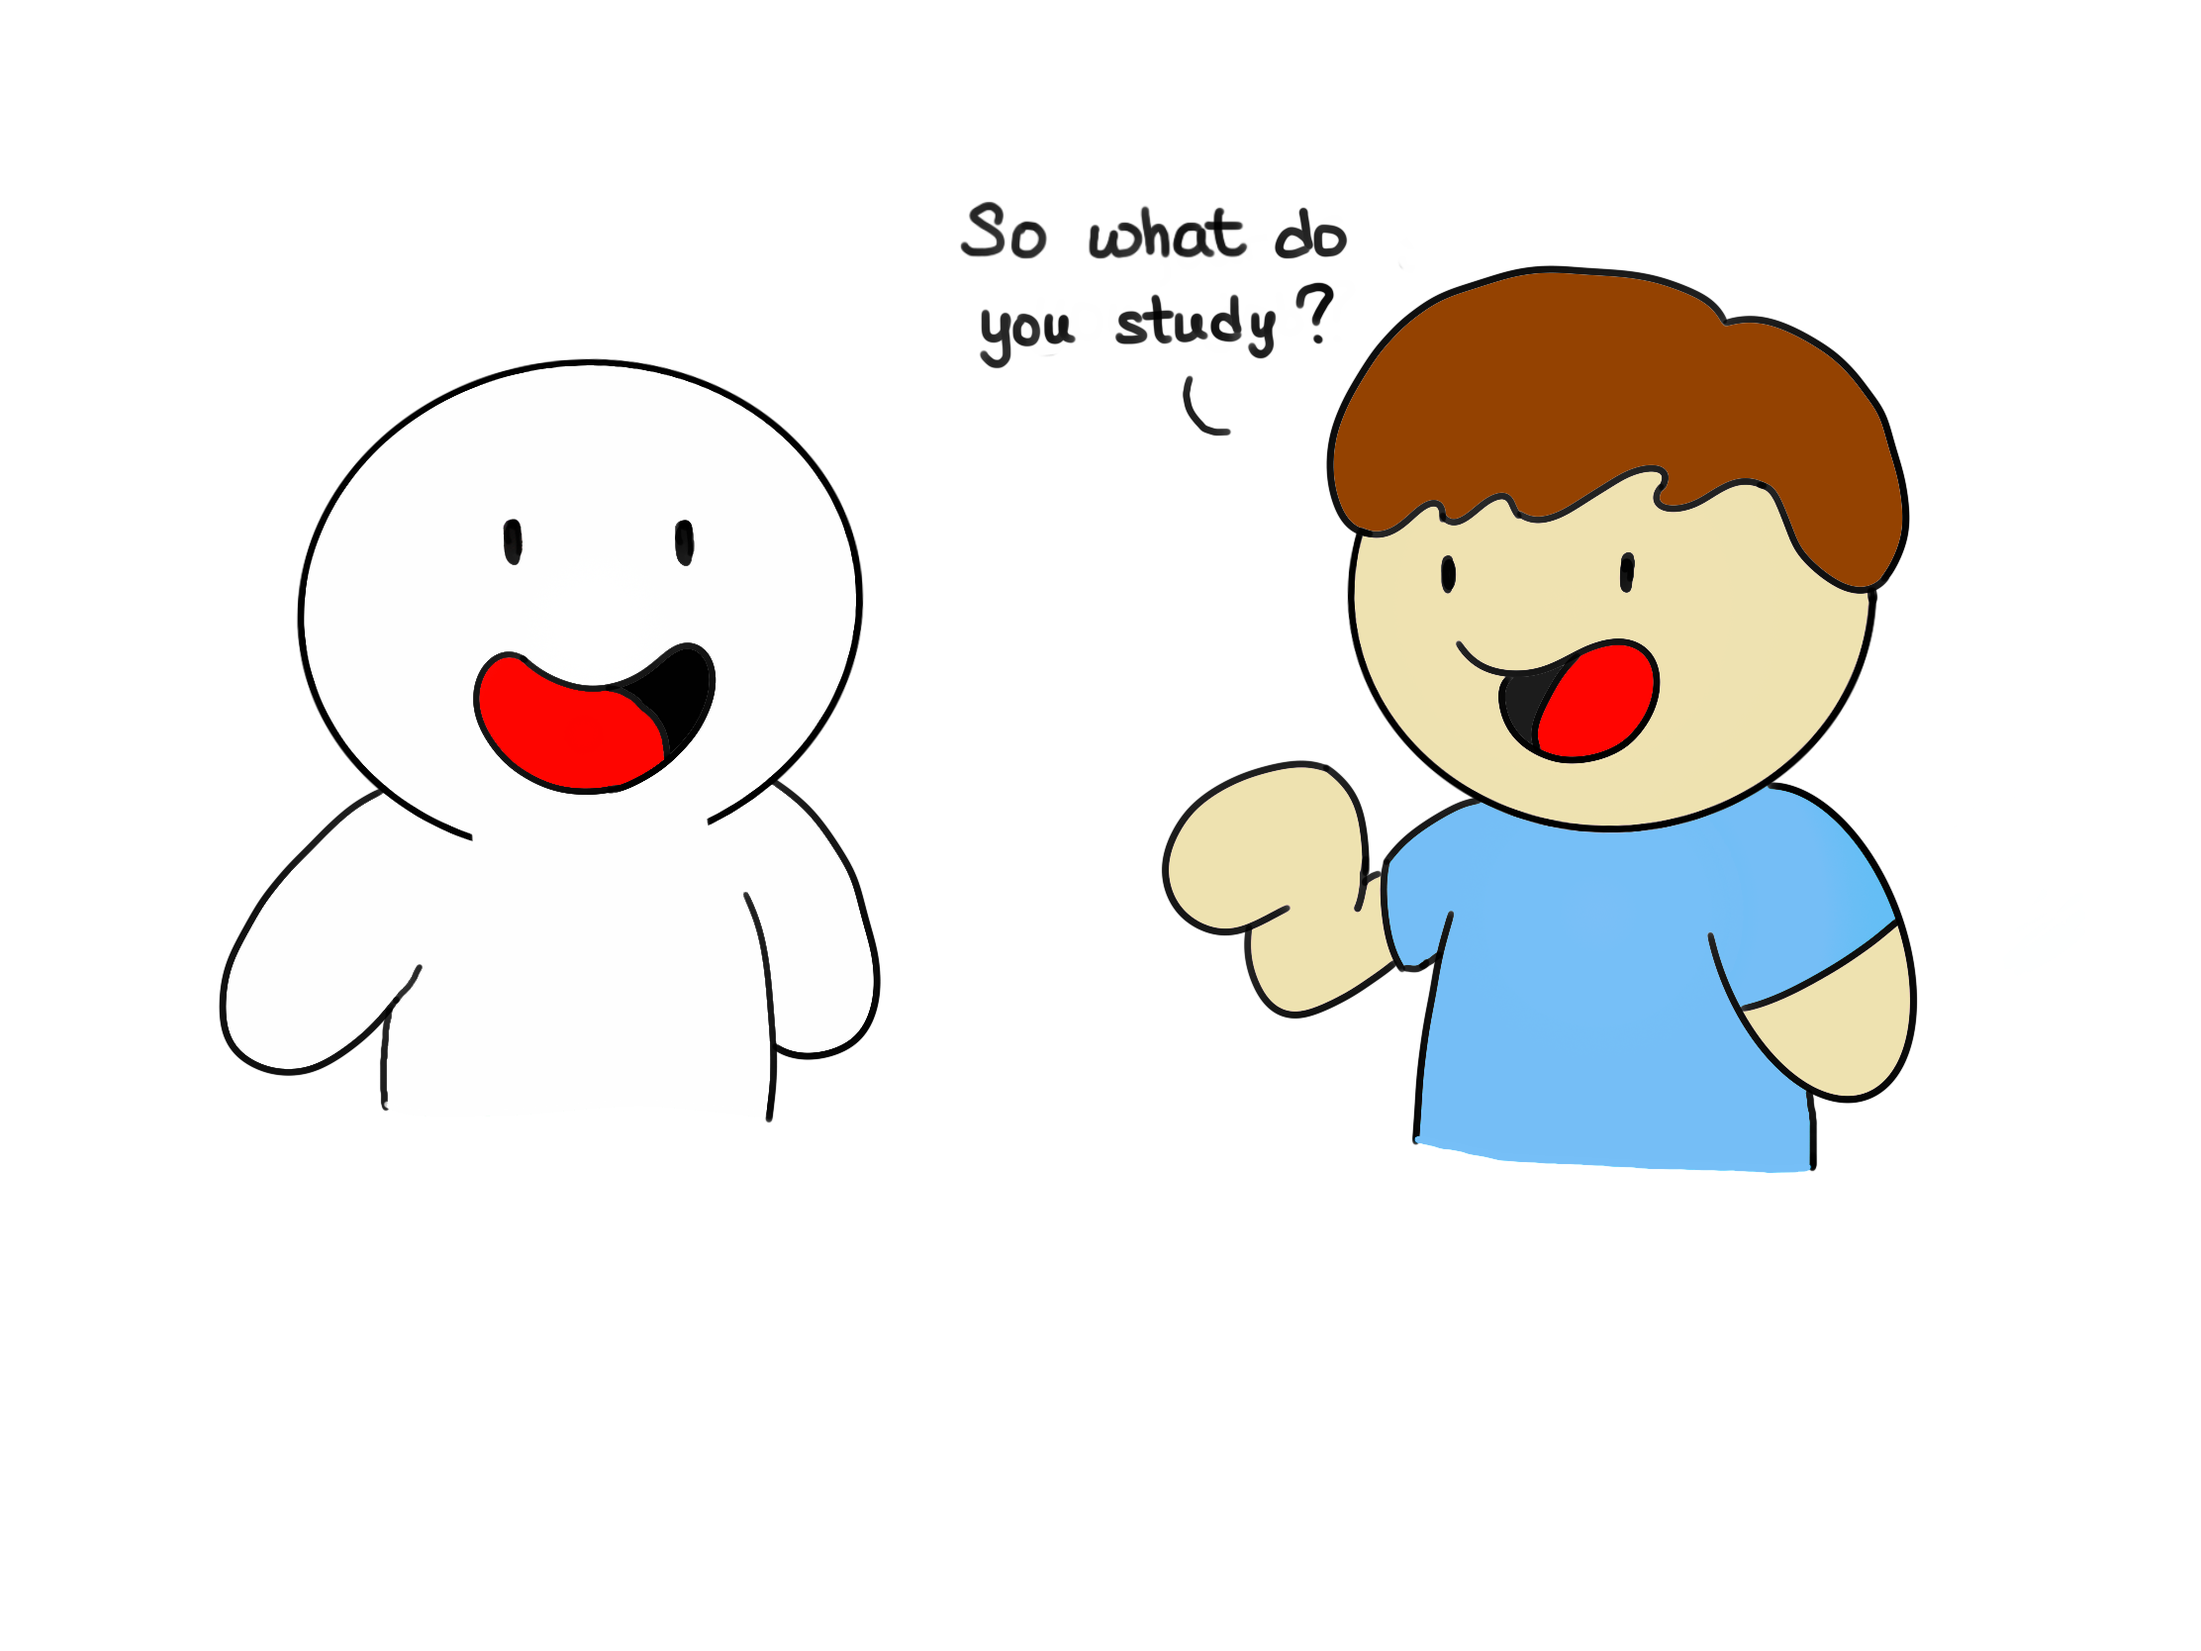
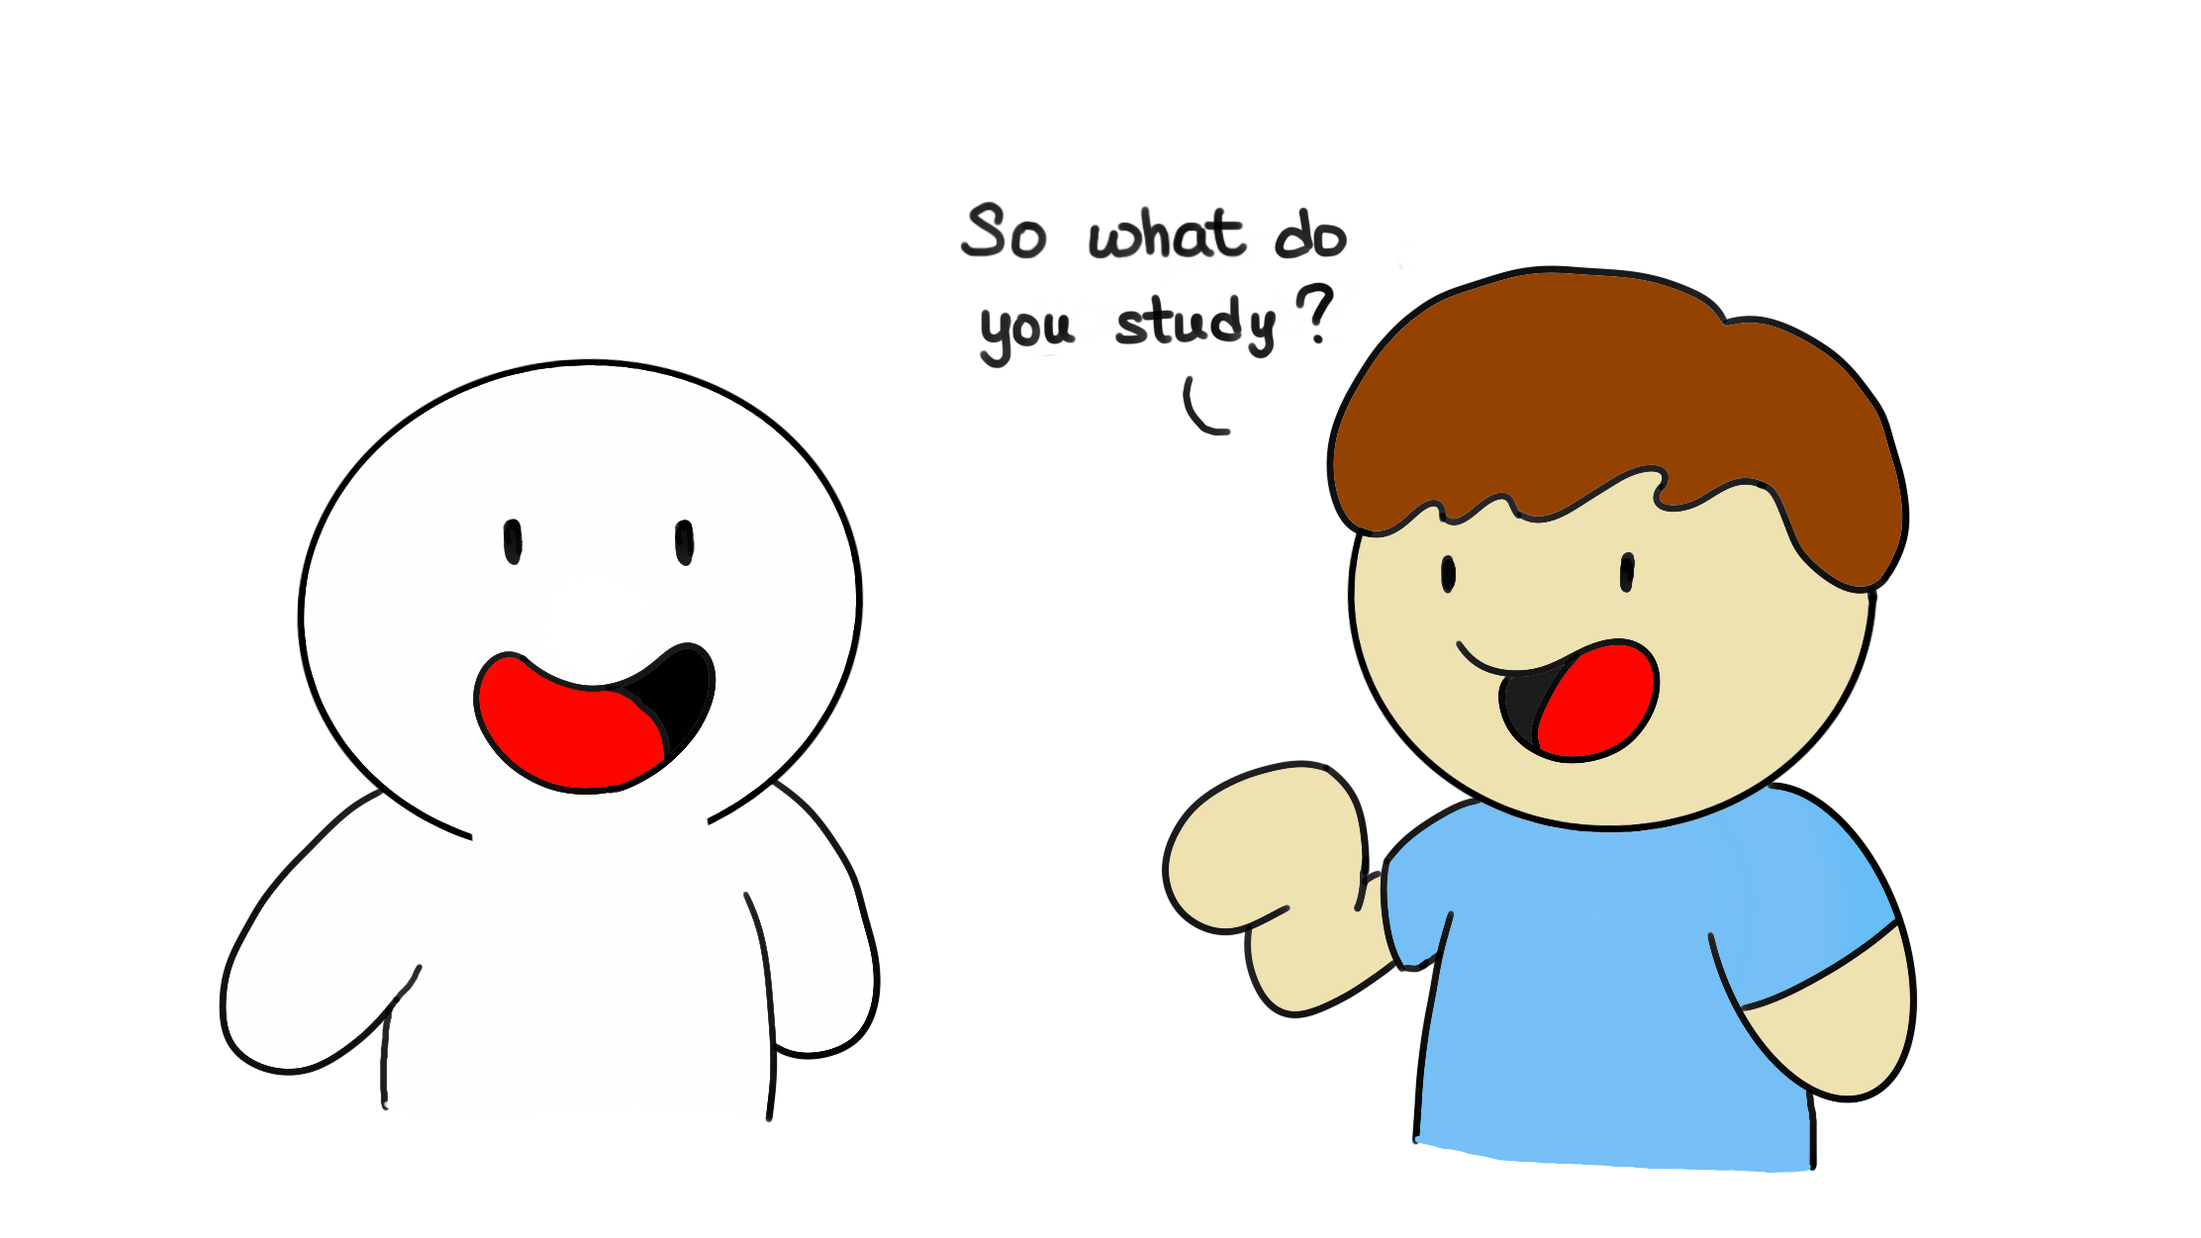
Resized figures for Mission page

diff --git a/mission.md b/mission.md
@@ -8,3 +8,5 @@ image1: ["/assets/pages/Mission/About4.png", "/assets/pages/Mission/About5.png",
 {% include slider.html image=page.image0 tag=0 %}
 This scenario is very familiar to any physics student. Typically, there are different stages after someone ask me about what I study. First, they thought in their mind "What have I done?!" Second, they would try to mask it with something flattering like "Oh my god, that's so difficult," or "Oh wow, I failed physics in my high school." After that, they would internally breath a sigh of relief, then abandon the subject altogether, as if nothing ever happened. Occasionally, there are some who suggest that physics is something in the realm of fantasy. Of course, as any self-respecting physics student...
 {% include slider.html image=page.image1 tag=1 %}
+
+You see, the problem is that, most people interact with physics only through science fiction or the occasional news article that emphasizes how absurd and difficult physics is. In reality, physics is really fun, and anyone can learn it if they try, much like the programming movement nowadays. If only there is a similar thing for physics... You see, the problem is that, most people interact with physics only through science fiction or the occasional news article that emphasizes how absurd and difficult physics is. In reality, physics is really fun, and anyone can learn it if they try, much like the programming movement nowadays. If only there is similar thing for physics... 
